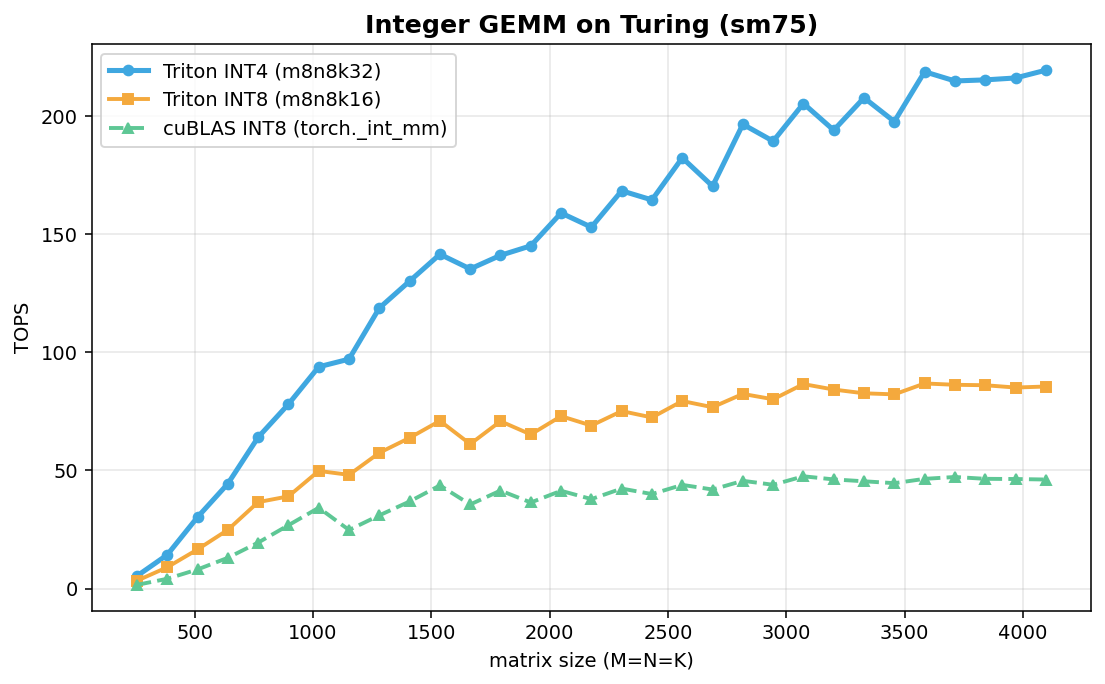
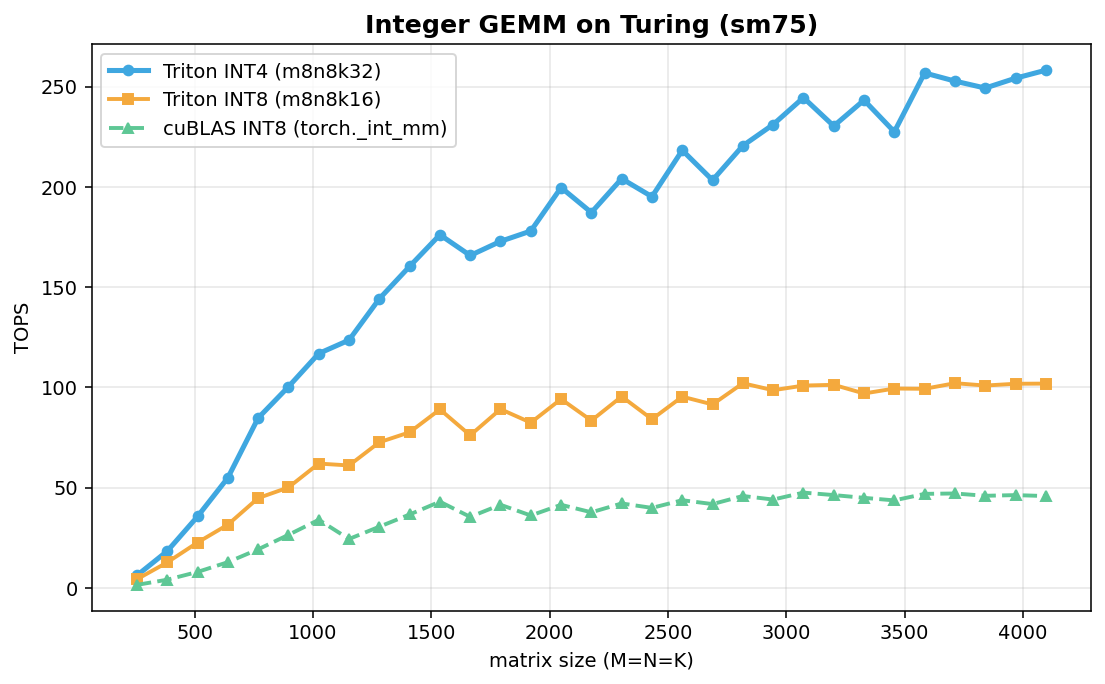
docs: re-measure every benchmark figure and correct the README
Every figure except fp16 was stale, and one had been wrong since August.
Re-measured all of them on main @ 65b2501fc, each figure from a single
session so its bars share a thermal state.

pipeline-regime: the committed PNG predated the corrected fig4_data.json it
was supposed to come from, so the backward d64 bar showed +1% where the
measurement says -9%. It also only compared num_stages 1 and 2, and a single
slot is exactly the case this month's codegen change does not touch. The new
figure (benchmarks/pipeline-regime/02) adds num_stages=3 for all six kernels,
five rotated cycles each, every s3 point checked against
TRITON_SM75_DUMP_PIPELINE_DEPTH so a silently clamped config cannot masquerade
as a third bar. None was clamped.

integer-gemm: the generator claimed the integer curves could not have moved
since gemm/13 because int8 and int4 dots are rank 2 and carry no transpose.
That held for the transposed-operand change it was written for, not for a
change keyed off ring slot count. Re-measured in gemm/23 with the same cooled
protocol: cuBLAS INT8 ties within 1% at every size, which is the control, and
both Triton curves are 14-29% higher. Peak INT4 219 -> 258 TOPS. The autotuner
picks num_stages=2 for int8 at every size, so that curve owes nothing to this
month; int4 picks s3 at 2048.

fa2: re-measured in fa2/12. The harness needed two fixes first. It measured
the first shape before the card left its 300 MHz idle clock, which cost
[…]

diff --git a/README.md b/README.md
@@ -4,13 +4,13 @@
 
 **Triton-Turing** is a community-maintained fork of [Triton](https://github.com/triton-lang/triton) focused on restoring high-performance Tensor Core support for NVIDIA Turing GPUs (SM75: RTX 2080 Ti, Titan RTX).
 
-Upstream Triton supports Turing's MMA instructions, but critical optimizations were gated to SM80+ (Ampere and later) — most importantly the software pipeline, which exclusively uses `cp.async`, an Ampere-only instruction. As a result, Turing performance degrades significantly compared to its tensor-core potential.
+Upstream Triton supports Turing's MMA instructions, but critical optimizations were gated to SM80+ (Ampere and later). The biggest one is the software pipeline, which exclusively uses `cp.async`, an Ampere-only instruction. As a result, Turing performance degrades significantly compared to its tensor-core potential.
 
 ## Goals
 
-1. **Software pipelining without `cp.async`** — a multi-stage `ld.global → st.shared → bar.sync` path to overlap memory loads with MMA on Turing (`num_stages` ≥ 2, not just double-buffering)
-2. **Turing-specific autotune** — configs tuned for 64 KB/CTA shared memory and native instruction shapes (fp16: `m16n8k8`, int8: `m8n8k16`)
-3. **int4 MMA support** — implement the `m8n8k32` instruction path for int4 precision (hardware-supported but not implemented in upstream Triton)
+1. **Software pipelining without `cp.async`**: a multi-stage `ld.global → st.shared → bar.sync` path to overlap memory loads with MMA on Turing (`num_stages` ≥ 2, not just double-buffering)
+2. **Turing-specific autotune**: configs tuned for 64 KB/CTA shared memory and native instruction shapes (fp16: `m16n8k8`, int8: `m8n8k16`)
+3. **int4 MMA support**: implement the `m8n8k32` instruction path for int4 precision (hardware-supported but not implemented in upstream Triton)
 
 ## Status
 
@@ -20,7 +20,6 @@ Upstream Triton supports Turing's MMA instructions, but critical optimizations w
 | Turing-specific autotune configs | ✅ Done |
 | int8 GEMM (`m8n8k16`) | ✅ Done |
 | int4 MMA (`m8n8k32`) — first usable pure-int4 matmul in Triton | ✅ Done |
-| FlashAttention-2 forward + backward (pipelined) | ✅ Done |
 | bf16 dot on the fp16 Tensor Core — opt-in, see below | ✅ Done |
 
 ## Performance
@@ -35,10 +34,10 @@ are still throttle-prone.
 ![FlashAttention-2 forward](.github/assets/benchmarks/fa2-forward.png)
 
 The Triton FA2 forward kernel (tutorial `06-fused-attention.py` plus our sm75
-pipeline) is the fastest at every size measured — ahead of a from-scratch
+pipeline) is the fastest at every size measured. It is ahead of a from-scratch
 CUDA/CUTLASS FlashAttention for Turing by **+21–26%** at head dim 64 and
-**+4–8%** at head dim 128, and ahead of PyTorch SDPA (xformers backend) by
-**1.7–2.2×**. Attention benefits from the pipeline because the softmax
+**+8–10%** at head dim 128, and ahead of PyTorch SDPA (xformers backend) by
+**1.8–2.1×**. Attention benefits from the pipeline because the softmax
 dependency chain leaves the Tensor Cores idle, and the pipeline uses that window
 to prefetch K/V.
 
@@ -46,43 +45,37 @@ to prefetch K/V.
 
 ![FlashAttention-2 backward](.github/assets/benchmarks/fa2-backward.png)
 
-Backward is honest about a limitation. At head dim 64 our kernel beats the
-CUDA/CUTLASS implementation by **+35–41%**, from Turing-specific block sizes
-plus a codegen change that lets a transposed dot operand read the shared buffer
-its untransposed sibling already filled, instead of paying a scratch round trip
-every loop iteration.
+At head dim 64 our kernel beats the CUDA/CUTLASS implementation by **+35–40%**,
+from Turing-specific block sizes plus a codegen change that lets a transposed
+dot operand read the shared buffer its untransposed sibling already filled,
+instead of paying a scratch round trip every loop iteration.
 
-At head dim 128 it **trails by 13–16%** — the only place we lose. Upstream's
+At head dim 128 it **trails by 15–16%**, the only place we lose. Upstream's
 d=128 backward blocks need ~82 KB of shared memory, well past Turing's hard
 **64 KB/CTA** limit, so `BLOCK_N1` and `BLOCK_M2` are halved to 64 to fit. An
 exhaustive sweep of the 216-configuration block/stage/warp space confirms that
 fallback is the fastest option available, not a tuning oversight: every larger
 tile that fits forces `num_stages=1`, and losing the pipeline costs more than
-the tile gains. Closing the gap needs a different kernel structure, and that is
-future work.
+the tile gains.
 
 ### Integer GEMM — INT4 doubles INT8, and cuBLAS has no INT4 path
 
 ![Integer GEMM](.github/assets/benchmarks/integer-gemm.png)
 
-INT4 (`m8n8k32`) reaches **≈ 2× the throughput of INT8** (peak **219 TOPS**),
-gaining on both fronts: 2× Tensor Core compute and half the shared-memory
-traffic (operands stay packed as `int32`). cuBLAS exposes **no INT4 GEMM at all**
-on Turing — this is the first usable pure-int4 matmul in Triton (upstream marks
-the path "Not implemented"). Triton INT8 also clears cuBLAS INT8 by ~1.8×.
+INT4 (`m8n8k32`) runs **2.1–2.5× faster than INT8** over the mid-to-large
+range and peaks at **258 TOPS**. It gets both 2× the Tensor Core throughput and
+half the shared-memory traffic, since operands stay packed as `int32`. cuBLAS
+has **no INT4 GEMM at all** on Turing, so this is the first usable pure-int4
+matmul in Triton; upstream marks the path "Not implemented". Triton INT8 is
+**~2.1× faster than cuBLAS INT8**.
 
 ### FP16 GEMM — matching NVIDIA's hand-tuned cuBLAS
 
 ![FP16 GEMM](.github/assets/benchmarks/fp16-gemm.png)
 
-For plain FP16 GEMM the Triton kernel reaches **≈ 87–89 % of cuBLAS** — NVIDIA's
-hand-tuned vendor library — across the mid-to-large size range (three passes,
+For plain FP16 GEMM the Triton kernel reaches **≈ 87–89 % of cuBLAS**, NVIDIA's
+hand-tuned vendor library, across the mid-to-large size range (three passes,
 `benchmarks/gemm/21`; the figure shows the middle one).
-
-Grouped (MoE) GEMM runs **+5–10 %** faster than the upstream configuration,
-almost all of it from using two pipeline stages instead of three: the third
-stage pushes a 128×128×32 tile past the 32 KB that lets two CTAs share a Turing
-SM, and buys back less than the occupancy it costs.
 
 ### bf16 — an opt-in Tensor Core path
 
@@ -100,38 +93,36 @@ checkpoints, so a large share of real workloads never touch the Tensor Cores.
 | 4096³ | 63.481 ms | 4.828 ms | **13.1×** |
 
 It is **off by default because it changes numerics.** bf16's 8 mantissa bits fit
-fp16 exactly, so operands inside fp16's normal range — 6.1e-5 to 65504 — convert
+fp16 exactly, so operands inside fp16's normal range, 6.1e-5 to 65504, convert
 losslessly. Outside it both ends degrade: smaller values fall into fp16
 subnormals and lose precision (relative error reaches 2.5e-2 at magnitude 1e-6),
 larger ones become `inf`. A model that uses bf16 *because* fp16 overflows is
-exactly what this breaks, and upstream's dot tests pass either way — check your
+exactly what this breaks, and upstream's dot tests pass either way. Check your
 own outputs before enabling it.
 
 ### When the software pipeline helps
 
 ![Pipeline regime](.github/assets/benchmarks/pipeline-regime.png)
 
-The sm75 software pipeline (the first ever implemented for Turing) helps
-**latency-exposed** kernels — FlashAttention (**+48 % fwd / +11 % bwd on head_dim=128**,
-**+11 % fwd on head_dim=64**) and grouped/MoE GEMM (**+20 %**). Kernels with no
-reduction loop to pipeline (layernorm, softmax, elementwise) are not applicable.
+This is the first software pipeline implemented for Turing. It helps kernels
+that stall on memory: FlashAttention forward gains **25 %** at head_dim=128 and
+**8 %** at 64, grouped/MoE GEMM **22 %**. It makes FlashAttention backward at
+head_dim=64 **9 % slower**. Layernorm, softmax and elementwise have no reduction
+loop, so it does not apply to them.
 
-Pipeline depth (`num_stages`) is configurable — not limited to double-buffering —
-and autotuned per kernel and size. Turing's small 64 KB/CTA shared memory caps the
-useful depth. With two or more shared-memory slots (`num_stages` ≥ 3) the loop runs
-the classic double-buffer schedule: **one `bar.sync` per K-tile**, placed just before
-the refill of the slot the next-but-one iteration reads, and the K-loop `tl.dot` is
-split so `ldmatrix` for the next slice interleaves with the current `mma` instead of
-bursting at the loop head. That schedule took a cuBLAS-shaped 128×256 GEMM tile from
-1.7× slower than cuBLAS to **85 % of it**, and made it the fastest dense-GEMM config
-from 2048³ up; a single slot (`num_stages=2`) still needs two barriers per K-tile
-and remains the sweet spot where the third stage does not fit (FlashAttention
-forward on head_dim=128).
+`num_stages` is autotuned per kernel and size, and the 64 KB/CTA shared memory
+limits how deep it can go. With two or more slots (`num_stages` ≥ 3) each K-tile
+costs one `bar.sync`, and `tl.dot` is split so `ldmatrix` runs between `mma`
+instructions instead of bursting at the loop head. On a 128×256 tile that moved
+us from 1.7× slower than cuBLAS to **85 % of it**, and it is now the fastest
+dense-GEMM config from 2048³ up. With one slot (`num_stages=2`) each K-tile
+costs two barriers, which is still faster when a third slot would cost more than
+it returns: on FlashAttention forward at head_dim=64 it halves occupancy.
 
 Because the 64 KB cap is applied silently, the depth you ask for is often not the
 depth you get. On a 128×128×64 tile, `num_stages` 3 and 4 compile to the same
-kernel — 4 asks for 3 slots at 98304 B, over the 64 KB limit, and gets clamped
-back to 2 — so any difference you measure between them is noise. Two ways to
+kernel: 4 asks for 3 slots at 98304 B, over the 64 KB limit, and gets clamped
+back to 2, so any difference you measure between them is noise. Two ways to
 see the real depth:
 
 ```shell
@@ -166,4 +157,4 @@ The repository also contains a separate `triton_kernels` package; if you need it
 **Windows:** the [`windows` branch](https://github.com/Chennesxu/triton-turing/tree/windows)
 carries the same sm75 work on top of
 [triton-windows](https://github.com/triton-lang/triton-windows) and builds with
-MSVC. Untested by us — we have no Turing card in a Windows machine.
+MSVC. Untested by us; we have no Turing card in a Windows machine.
